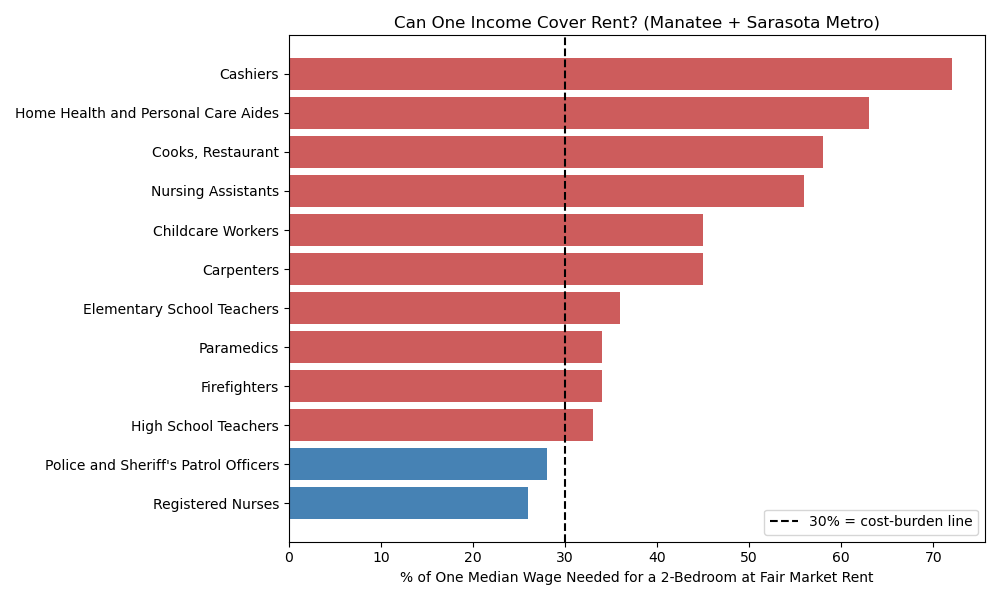
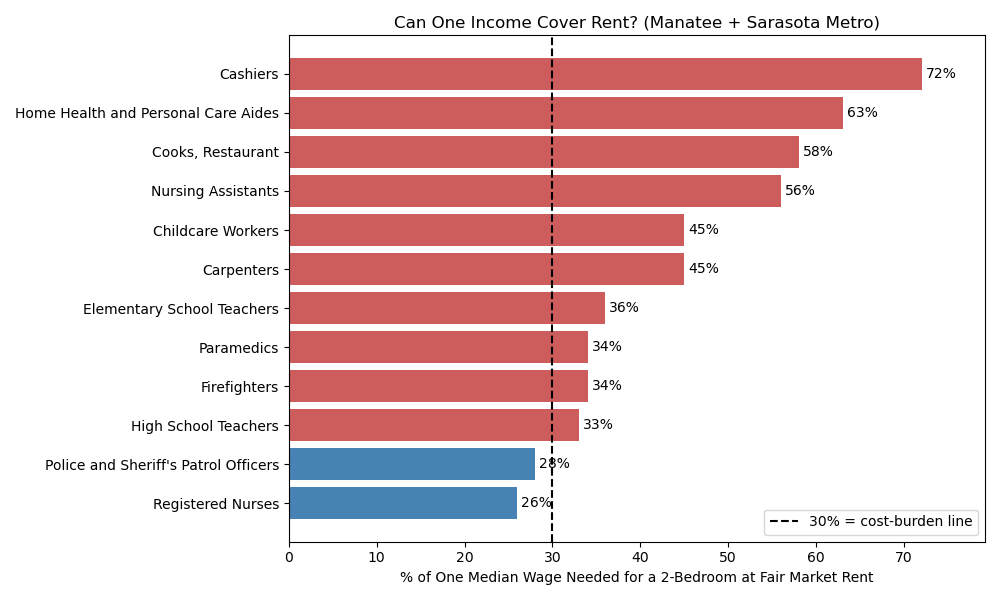
Update README.md for clarity on ACS medians and refine notebook execution counts; enhance data processing comments in housing cost burden analysis.

diff --git a/README.md b/README.md
@@ -45,7 +45,7 @@ The dataset also groups households by income level, measured against **Area Medi
 | Manatee      | \$81,395       | \$95,294  | \$61,281 |
 | Pinellas     | \$73,832       | \$85,139  | \$55,310 |
 
-So in Manatee, "30% AMI or less" works out to roughly **\$24,000/year or less**. (These ACS medians are a close proxy for HUD's official AMI, which is set per metro area rather than per county. Notice renters earn only one-half to two-thirds of what owners earn - a preview of the renter-vs-owner finding below.)
+So in Manatee, "30% AMI or less" works out to roughly **\$24,000/year or less**. (These American Community Survey (ACS) medians are a close proxy for HUD's official AMI, which is set per metro area rather than per county. Notice renters earn only one-half to two-thirds of what owners earn - a preview of the renter-vs-owner finding below.)
 
 Why use the _local_ median instead of one statewide number? Because \$50,000 stretches much further in a small rural county than in Miami-Dade. AMI keeps the comparison fair county by county.
 
@@ -249,7 +249,7 @@ The honest fine print (Section 11 of the notebook has the full version):
 - **AMI proxy.** County median income approximates HUD's metro-level AMI; "roughly \$24,000" is a good ballpark, not the official cutoff.
 - **One earner per household.** The wages-vs-rent chart shows what a _solo_ median-wage worker faces; many households have two earners.
 - **Mixed time windows.** Cost burden is 2023, income 2024, household types 2020-2024, Fair Market Rent 2025 - each sheet is used on its own terms.
-- **College-town effect.** University counties like Alachua (Gainesville/UF) and Leon (Tallahassee/FSU & FAMU) can read high partly because of off-campus students. The Census measures a household's _own_ income, so students living on parental support, loans, or part-time work can show up as cost-burdened even when their families are not low-income. This does not make their burden fake - students also compete for rentals and push local rents up - but it is a reason to read those counties with extra care. Cleanly separating student from non-student renters would require record-by-record data on individual households (the Census Bureau publishes this as the American Community Survey Public Use Microdata Sample, or "PUMS"); the county-level Shimberg totals used here are already added up, so they cannot isolate that.
+- **College-town effect.** University counties like Alachua (Gainesville/UF) and Leon (Tallahassee/FSU & FAMU) can read high partly because of off-campus students. The Census measures a household's _own_ income, so students living on parental support, loans, or part-time work can show up as cost-burdened even when their families are not low-income. This does not make their burden fake - students also compete for rentals and push local rents up - but it is a reason to read those counties with extra care. Cleanly separating student from non-student renters would require record-by-record data on individual households (the Census Bureau publishes this as the ACS Public Use Microdata Sample, or "PUMS"); the county-level Shimberg totals used here are already added up, so this analysis can't isolate that with county-level totals.
 - **Descriptive, not causal.** This shows _where_ and _who_, not _why_.
 
 ---